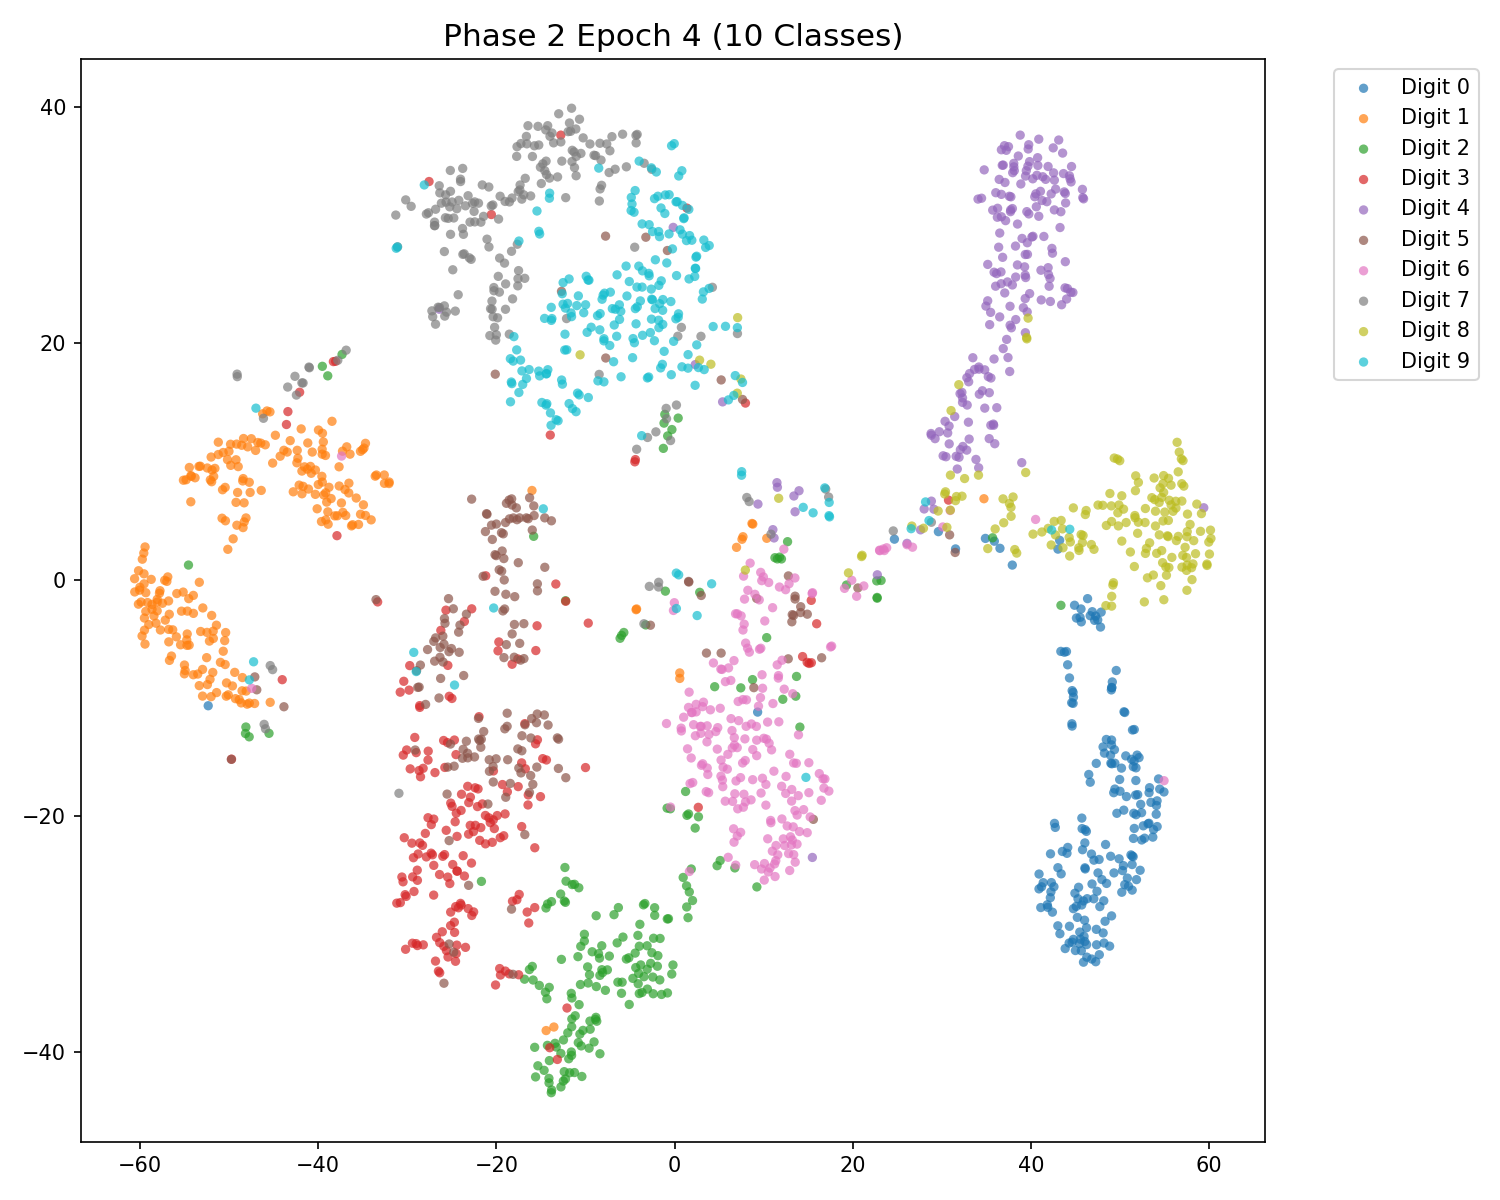
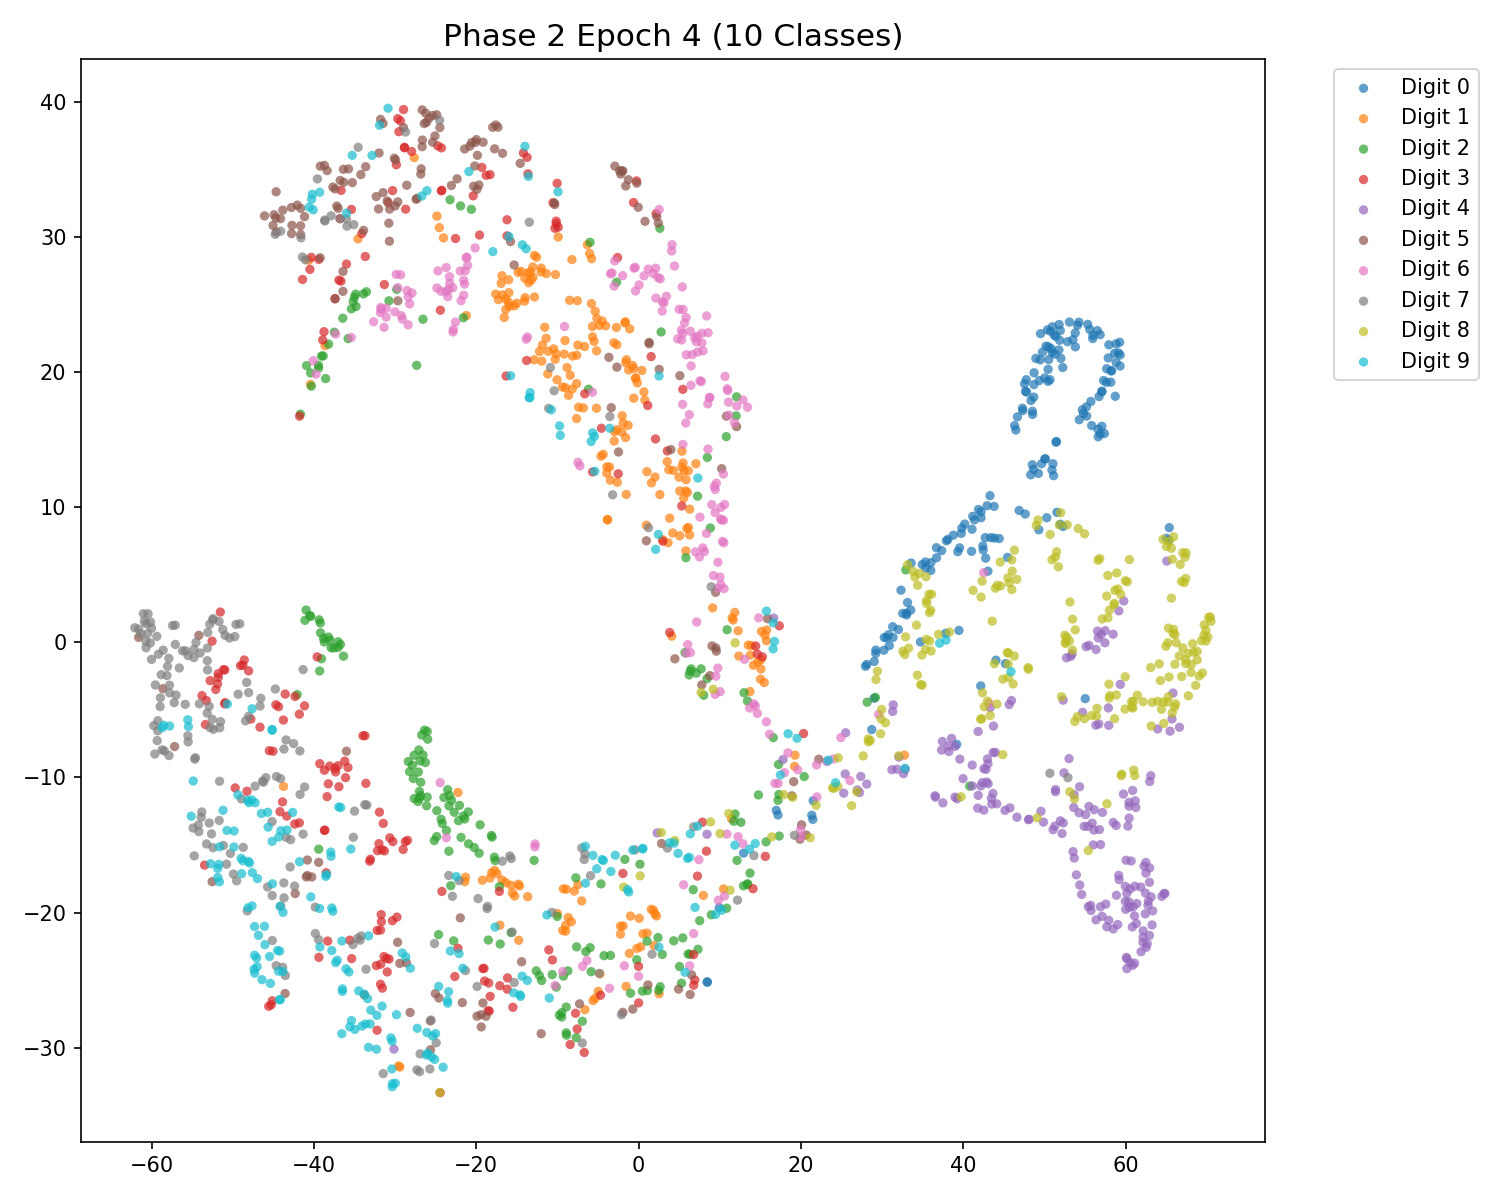
decoder 빼고 돌렸을때

diff --git a/verify_decoder_removed.py b/verify_decoder_removed.py
@@ -1,0 +1,92 @@
+
+import torch
+import sys
+import os
+
+# Add src to path
+sys.path.insert(0, os.getcwd())
+
+from src.config import get_default_config
+from src.models.model import PrototypeNetwork
+from src.training.losses import PTaRLLoss
+
+def check_decoder_gradients():
+    # 1. Setup options
+    config = get_default_config()
+    device = 'cpu'
+    
+    print(f"Config Reconstruction Weight: {config.ptarl_weights['reconstruction_weight']}")
+    
+    # 2. Create model
+    model = PrototypeNetwork(
+        n_numerical=config.n_numerical,
+        categorical_cardinalities=config.get_cardinality_list(),
+        d_model=config.d_model,
+        n_heads=config.n_heads,
+        n_layers=config.n_layers,
+        d_ffn=config.d_ffn,
+        n_global_prototypes=config.n_global_prototypes,
+        decoder_hidden_dim=config.decoder_hidden_dim
+    ).to(device)
+    
+    # 3. Set Phase 2
+    model.set_second_phase()
+    embeddings = torch.randn(10, config.d_model)
+    model.initialize_global_prototypes(embeddings)
+    
+    # 4. Create dummy data
+    batch_size = 4
+    x_num = torch.randn(batch_size, config.n_numerical).to(device)
+    x_cat = torch.randint(0, 1, (batch_size, config.n_categorical)).to(device)
+    targets = torch.randint(0, 2, (batch_size,)).float().to(device)
+    
+    # 5. Zero grad
+    model.zero_grad()
+    
+    # 6. Forward pass (Simulate Trainer Phase 2: return_all=False)
+    print("Running forward pass (return_all=False)...")
+    outputs = model(x_num, x_cat, return_all=False)
+    
+    if 'num_recon' in outputs:
+        print("[WARNING] num_recon is present in outputs!")
+    else:
+        print("[OK] num_recon is NOT in outputs.")
+    
+    # 7. Compute Loss
+    print("Computing loss...")
+    # Manually construct loss with current config weights (reconstruction_weight should be 0)
+    ptarl_args = config.ptarl_weights.copy()
+    ptarl_args['n_classes'] = config.n_classes
+    criterion = PTaRLLoss(**ptarl_args)
+    
+    losses = criterion(
+        outputs, targets,
+        model.global_prototype_layer,
+        x_num=x_num,
+        x_cat=x_cat
+    )
+    
+    print(f"Total Loss: {losses['total'].item()}")
+    print(f"Reconstruction Loss: {losses['reconstruction'].item()}")
+    
+    # 8. Backward
+    print("Running backward pass...")
+    losses['total'].backward()
+    
+    # 9. Check gradients
+    decoder_grad = False
+    for name, param in model.decoder.named_parameters():
+        if param.grad is not None:
+            grad_norm = param.grad.norm().item()
+            if grad_norm > 0:
+                print(f"Decoder param {name} has gradient norm: {grad_norm}")
+                decoder_grad = True
+                break
+        
+    if not decoder_grad:
+        print("\n[SUCCESS] Decoder has NO gradients in Phase 2.")
+    else:
+        print("\n[FAILURE] Decoder still receives gradients!")
+
+if __name__ == "__main__":
+    check_decoder_gradients()

diff --git a/src/training/trainer.py b/src/training/trainer.py
@@ -267,7 +267,7 @@ class Trainer:
             targets = targets.to(self.device)
             
             self.optimizer.zero_grad()
-            outputs = self.model(x_num, x_cat, return_all=True)
+            outputs = self.model(x_num, x_cat, return_all=False)
             
             losses = self.phase2_criterion(
                 outputs, targets,
@@ -314,6 +314,7 @@ class Trainer:
                     outputs, targets, x_num, x_cat
                 )
             else:
+                outputs = self.model(x_num, x_cat, return_all=False)
                 losses = self.phase2_criterion(
                     outputs, targets,
                     self.model.global_prototype_layer,

diff --git a/src/config.py b/src/config.py
@@ -76,7 +76,7 @@ class ModelConfig:
         'projection_weight': 0.1,
         'diversifying_weight': 0.1,
         'orthogonalization_weight': 0.1,
-        'reconstruction_weight': 0.5
+        'reconstruction_weight': 0.0
     })
     
     # Sinkhorn Distance Parameters
